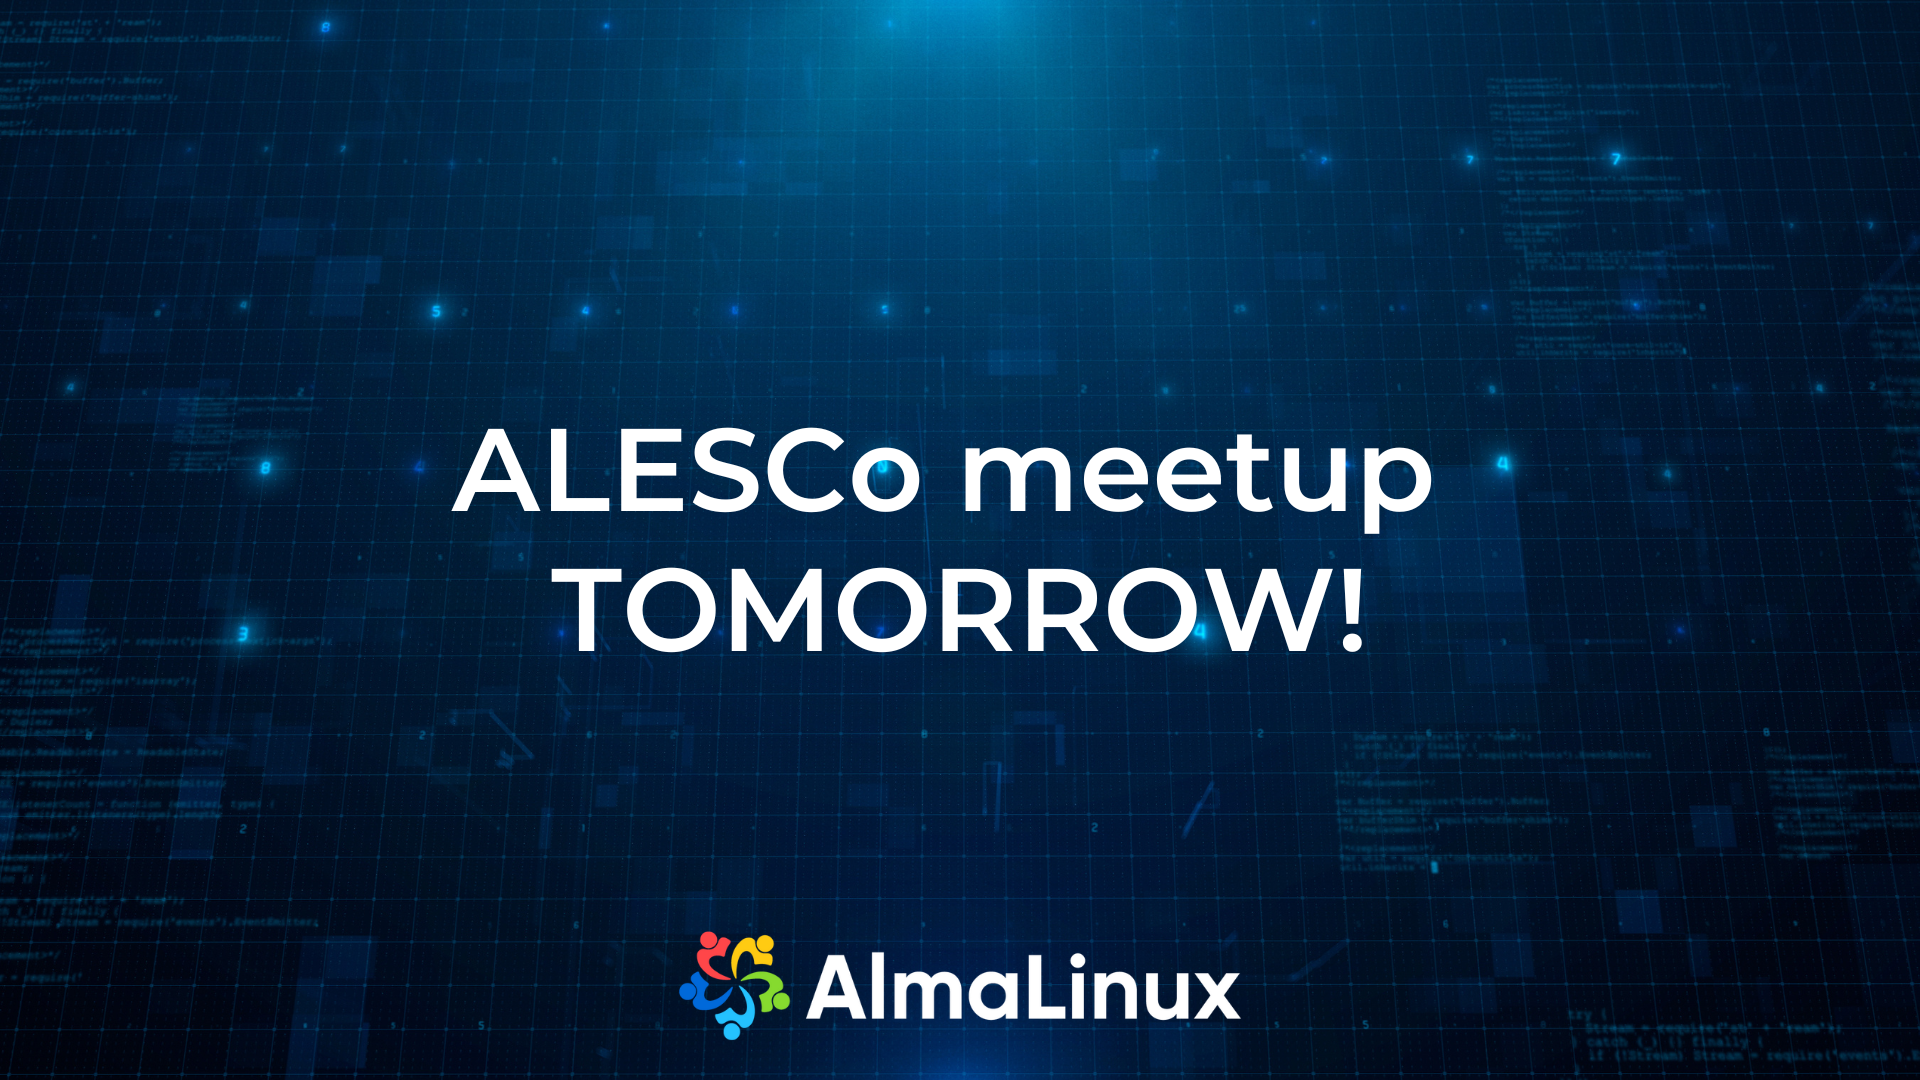
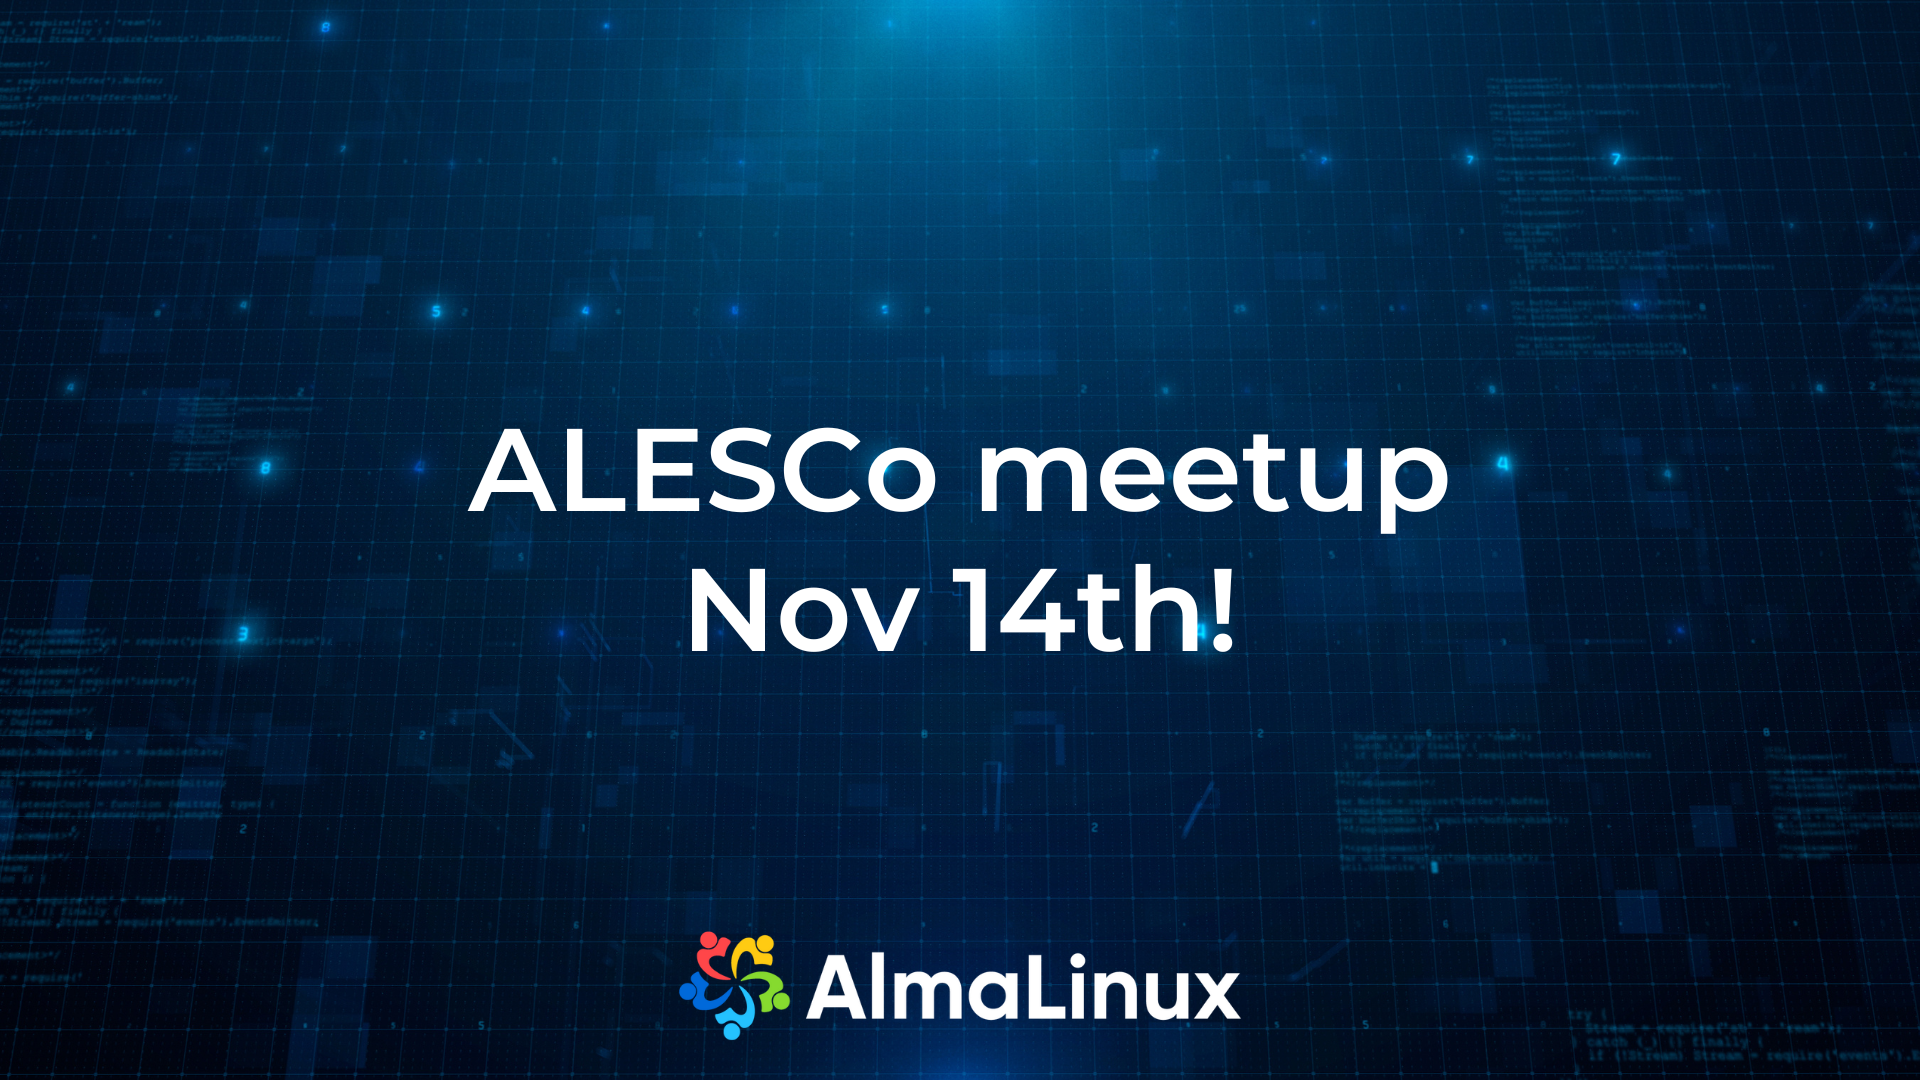
Updating with the reschedule information

Changed region(s): [[0.2188, 0.3972, 0.7812, 0.4889], [0.2812, 0.5194, 0.7188, 0.6111]]

diff --git a/content/blog/2024-10-23-join-the-alesco-meetup.md b/content/blog/2024-10-23-join-the-alesco-meetup.md
@@ -1,5 +1,5 @@
 ---
-title: "Tomorrow - ALESCo meetup!"
+title: "Nov 14th - ALESCo meetup!"
 type: blog
 author: 
  name: "Cody Robertson"
@@ -9,17 +9,17 @@ date: 2024-10-23
 images:
   - /blog-images/2024/alescomeetup.png
 post: 
-    title: "Tomorrow - ALESCo meetup!"
+    title: "Nov 14th - ALESCo meetup!"
     image: /blog-images/2024/alescomeetup.png
 ---
 
 Since our inception just a few months ago, there has been a lot of exciting news coming out of ALESCo. Whether you've been following along [via the minutes](https://wiki.almalinux.org/alesco.html), or attending the meetings yourself, or engaging in our chat, we are so humbled by the excitement around what we're doing.
 
-Tomorrow, Oct 24th at [10am eastern US time](https://www.worldtimebuddy.com/?pl=1&lid=4998830,2643743,8,1850147&h=2643743&hf=1), we're hosting a digital meetup. We'll be hanging out, ready to answer questions or just talk shop. Not all of our members will be able to make it, but we'll have a good cross-section of the SIGs present, as well as our board chair. 
+~Tomorrow, Oct 24th at 10am eastern US time~ <small>(Rescheduled)</small> November 14th at [12pm Eastern US time](https://www.worldtimebuddy.com/?qm=1&lid=4998830,2643743,8,1850147&h=2643743&date=2024-11-12&sln=17-18&hf=1), we're hosting a digital meetup. We'll be hanging out, ready to answer questions or just talk shop. Not all of our members will be able to make it, but we'll have a good cross-section of the SIGs present, as well as our board chair. 
 
 ## Details
 
--   Oct 24th at [10am eastern US time](https://www.worldtimebuddy.com/?pl=1&lid=4998830,2643743,8,1850147&h=2643743&hf=1)
+-   ~Oct 24th~ <small>(Rescheduled)</small> November 14th at [12pm Eastern US time](https://www.worldtimebuddy.com/?qm=1&lid=4998830,2643743,8,1850147&h=2643743&date=2024-11-12&sln=17-18&hf=1)
 -   Online on Jitsi
 	-   The link to the meetup will be sent out an hour before the event automatically. You can [register for the event](https://events.almalinux.org/event/107/), or just join the ~ALESCo room on [chat.almalinux.org](http://chat.almalinux.org) and watch for us to share it.
 -   If you can't make it but would like to ask a question submit it before the event here: <https://forms.gle/21dAedZmHvhaM8ot5>
